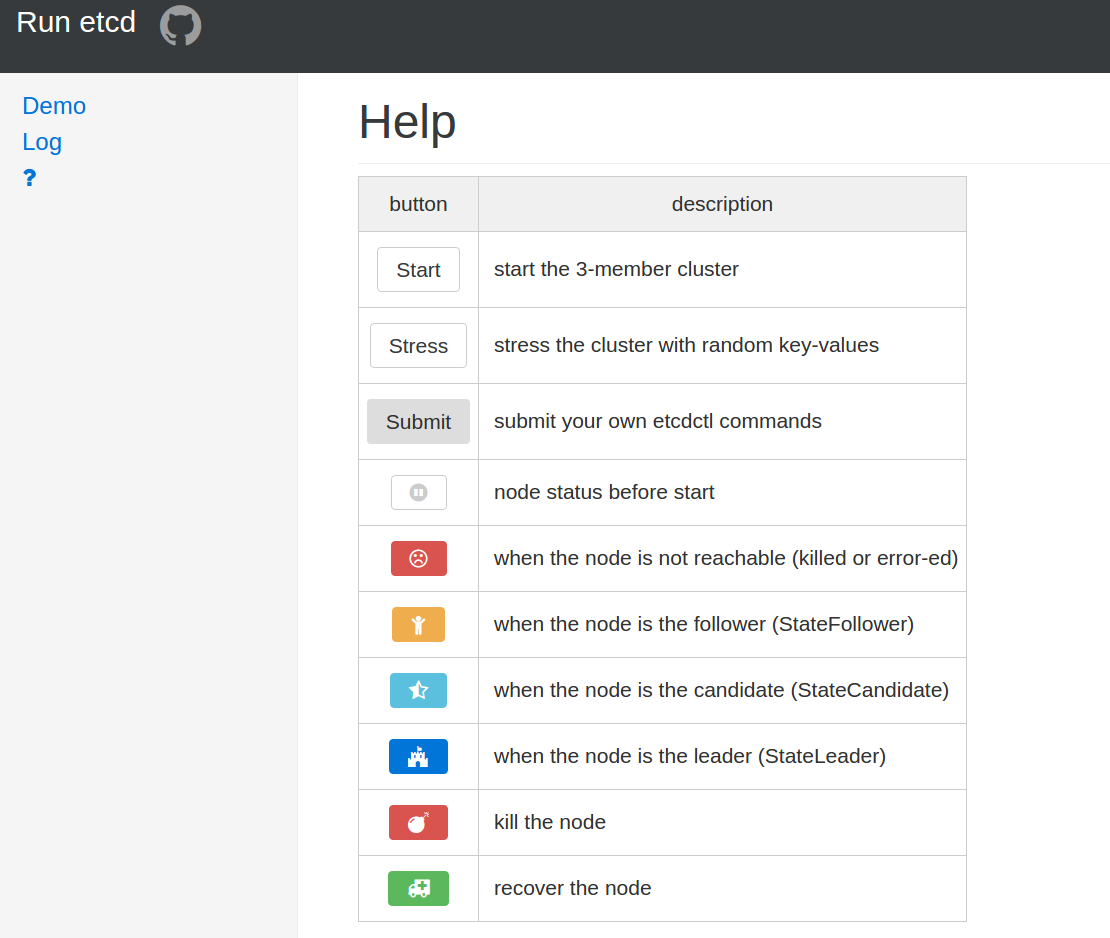
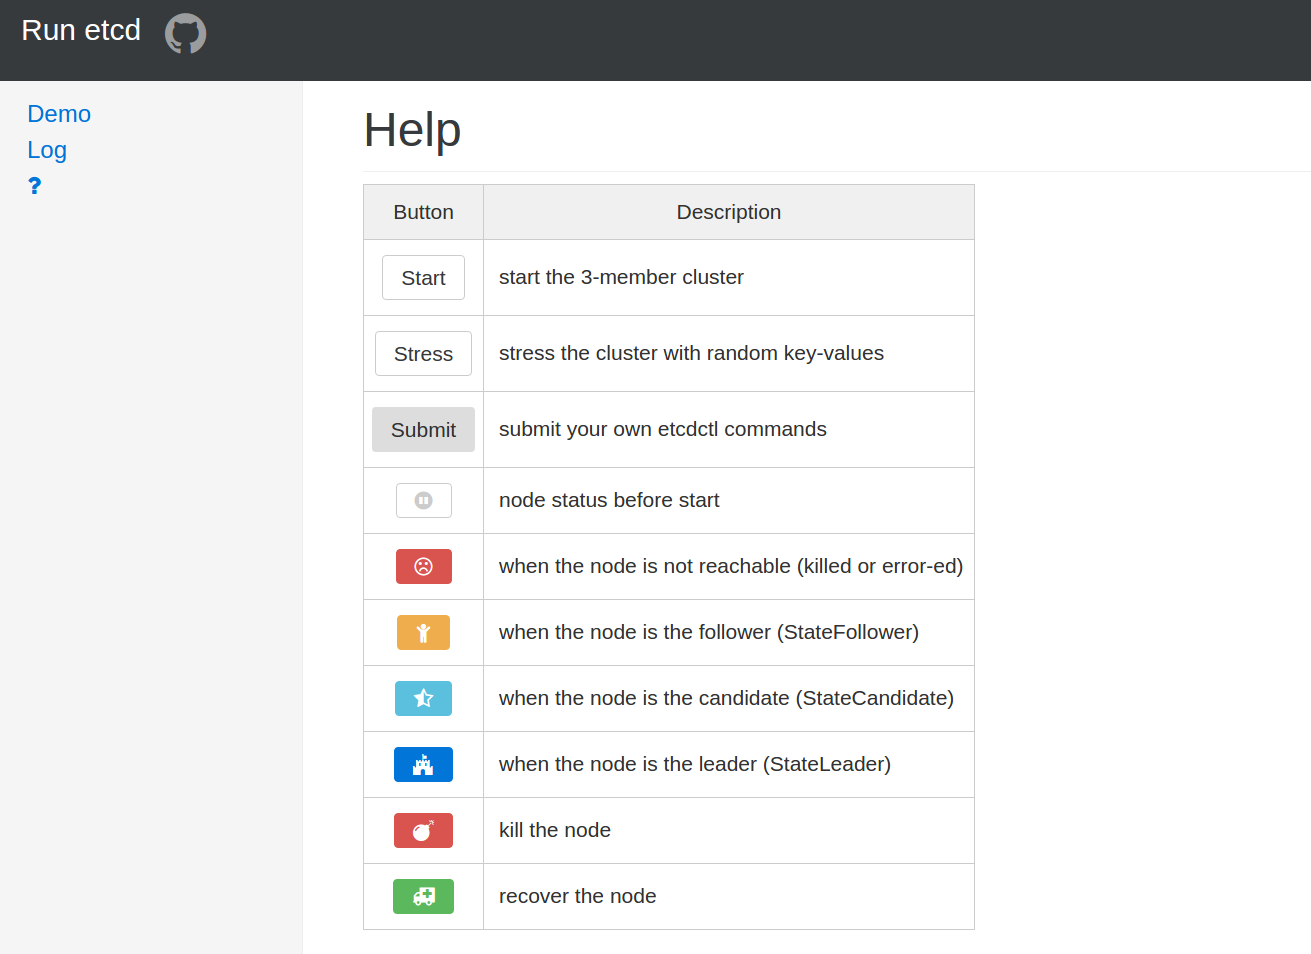
frontend: capitalize in help table header

Changed region(s): [[0.2757, 0.1855, 0.8577, 0.9893], [0.0, 0.0, 1.0, 0.2164], [0.5207, 0.1855, 0.7045, 0.2473]]

diff --git a/static/index.html b/static/index.html
@@ -1073,8 +1073,8 @@
                         </style>
                         <table class="tg">
                             <tr>
-                                <th class="tg-1">button</th>
-                                <th class="tg-1">description</th>
+                                <th class="tg-1">Button</th>
+                                <th class="tg-1">Description</th>
                             </tr>
                             <tr>
                                 <td class="tg-1">
